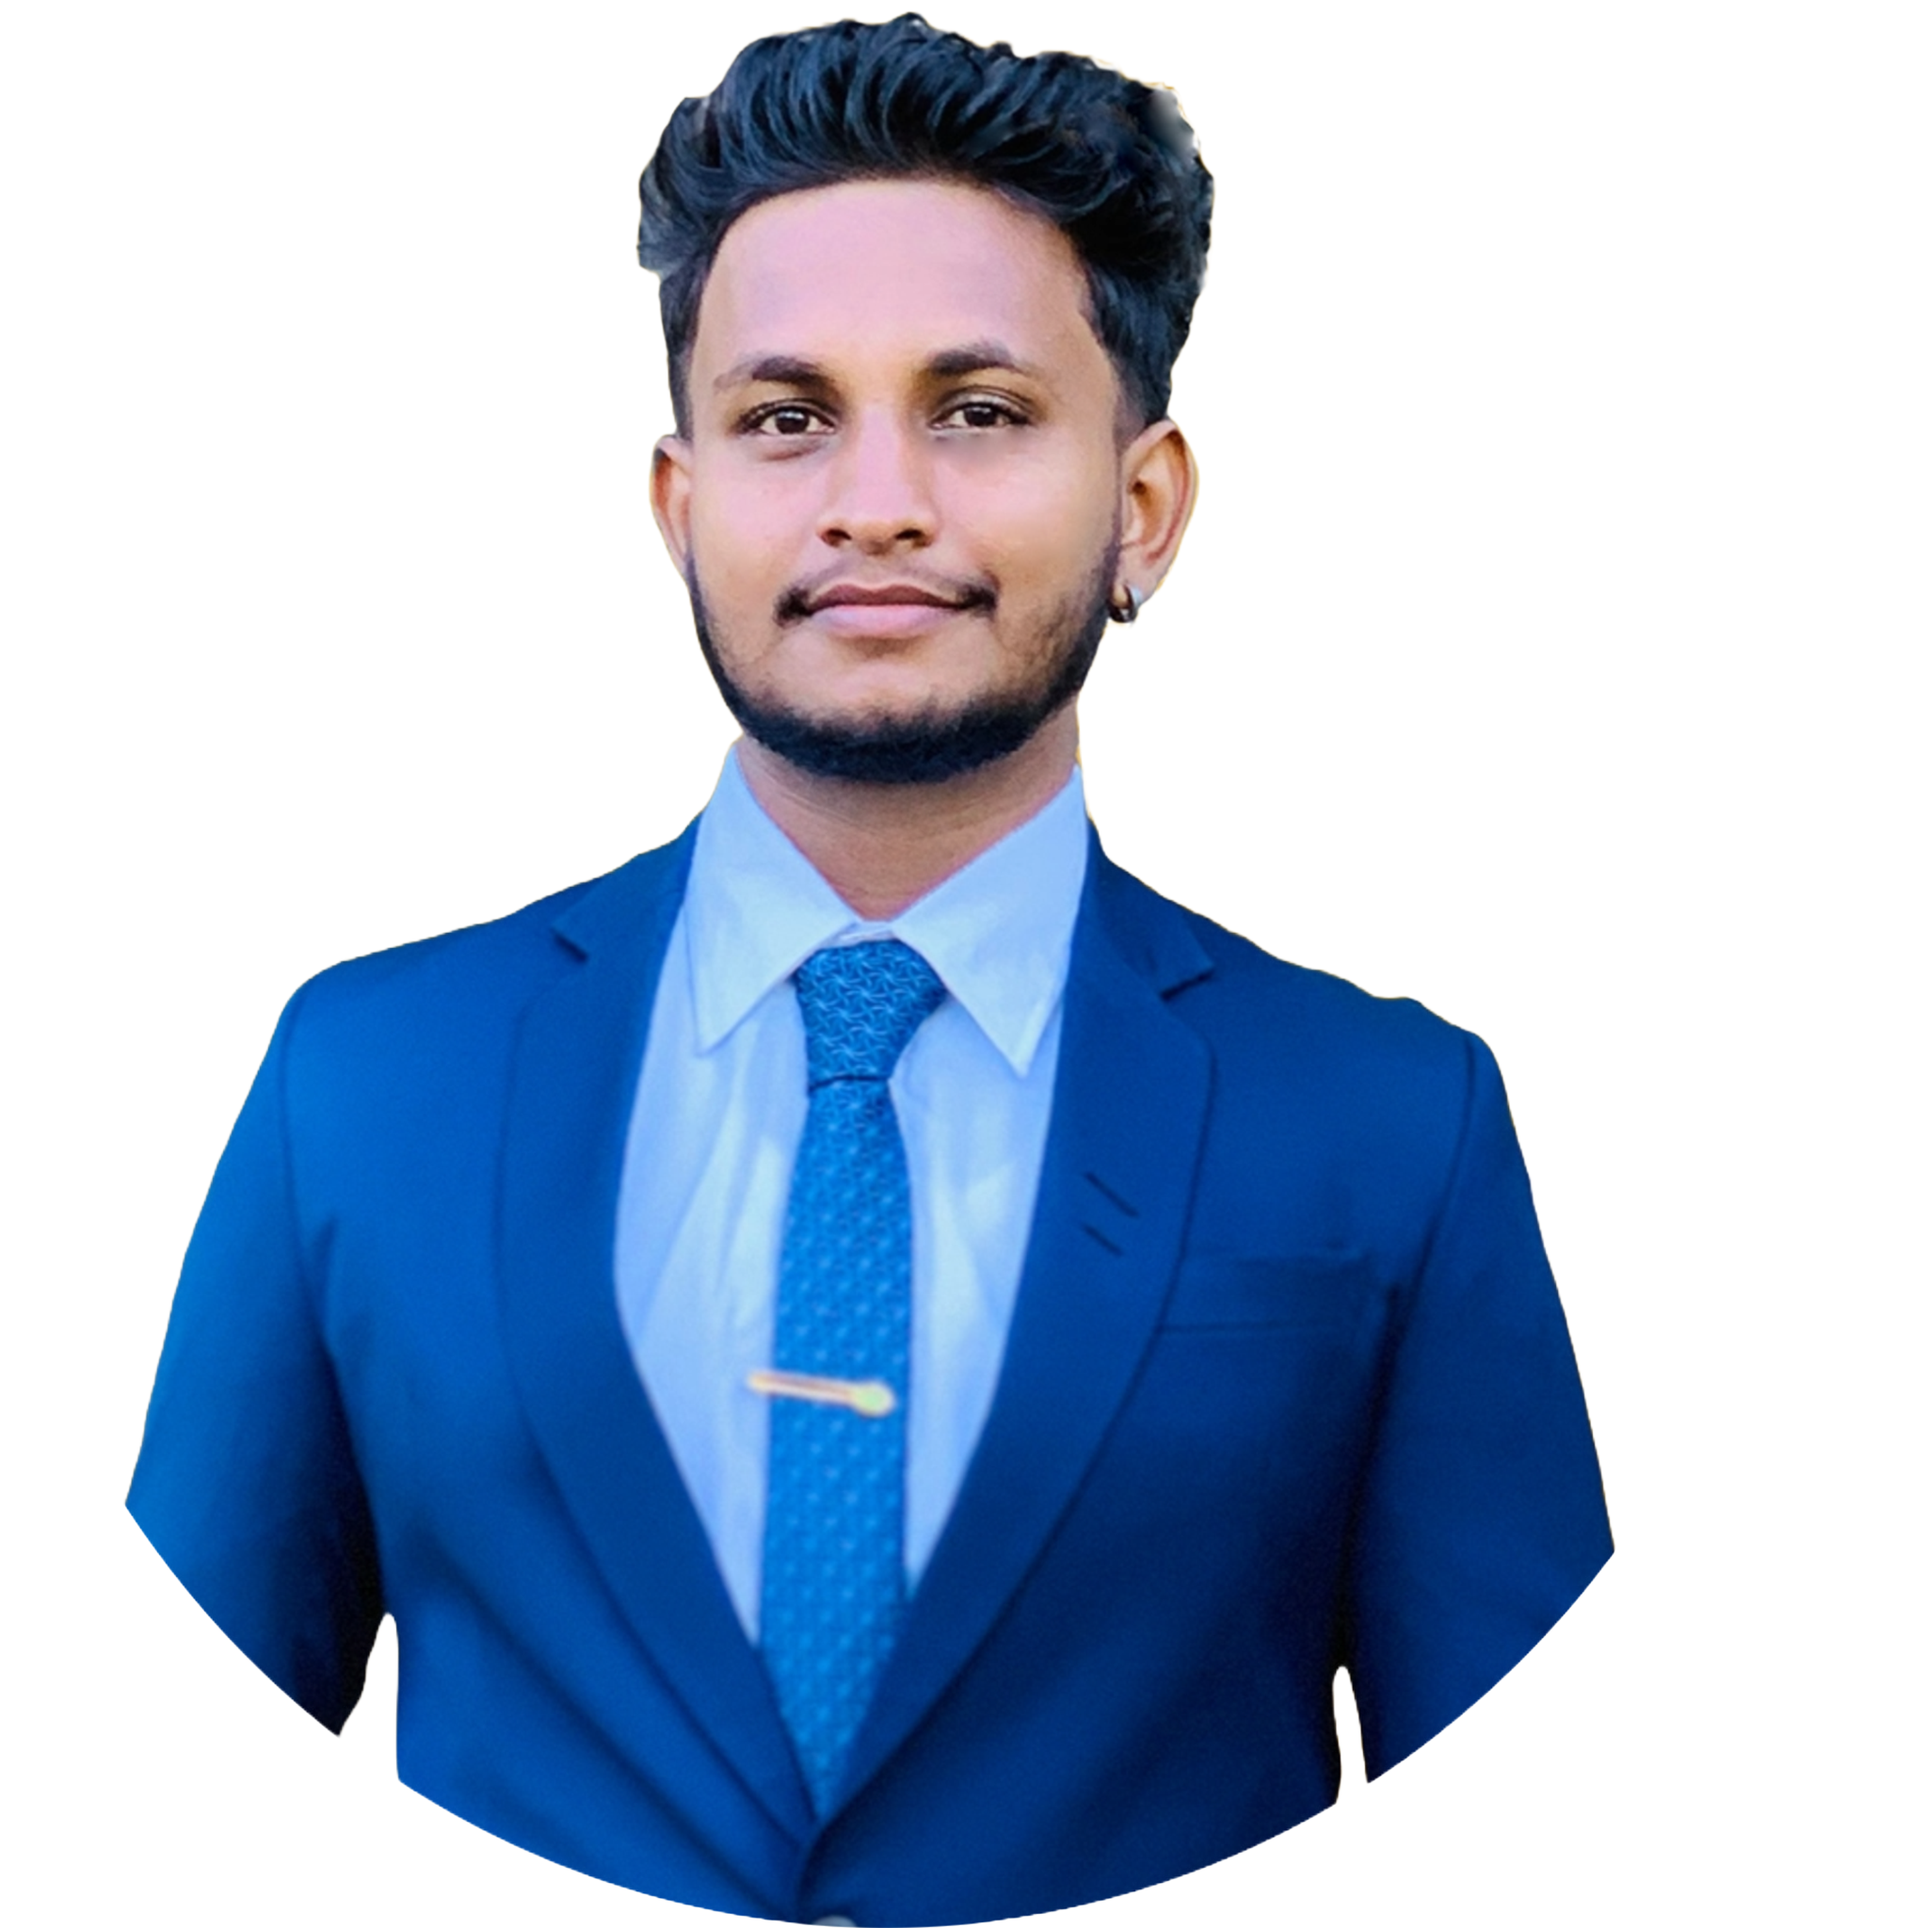
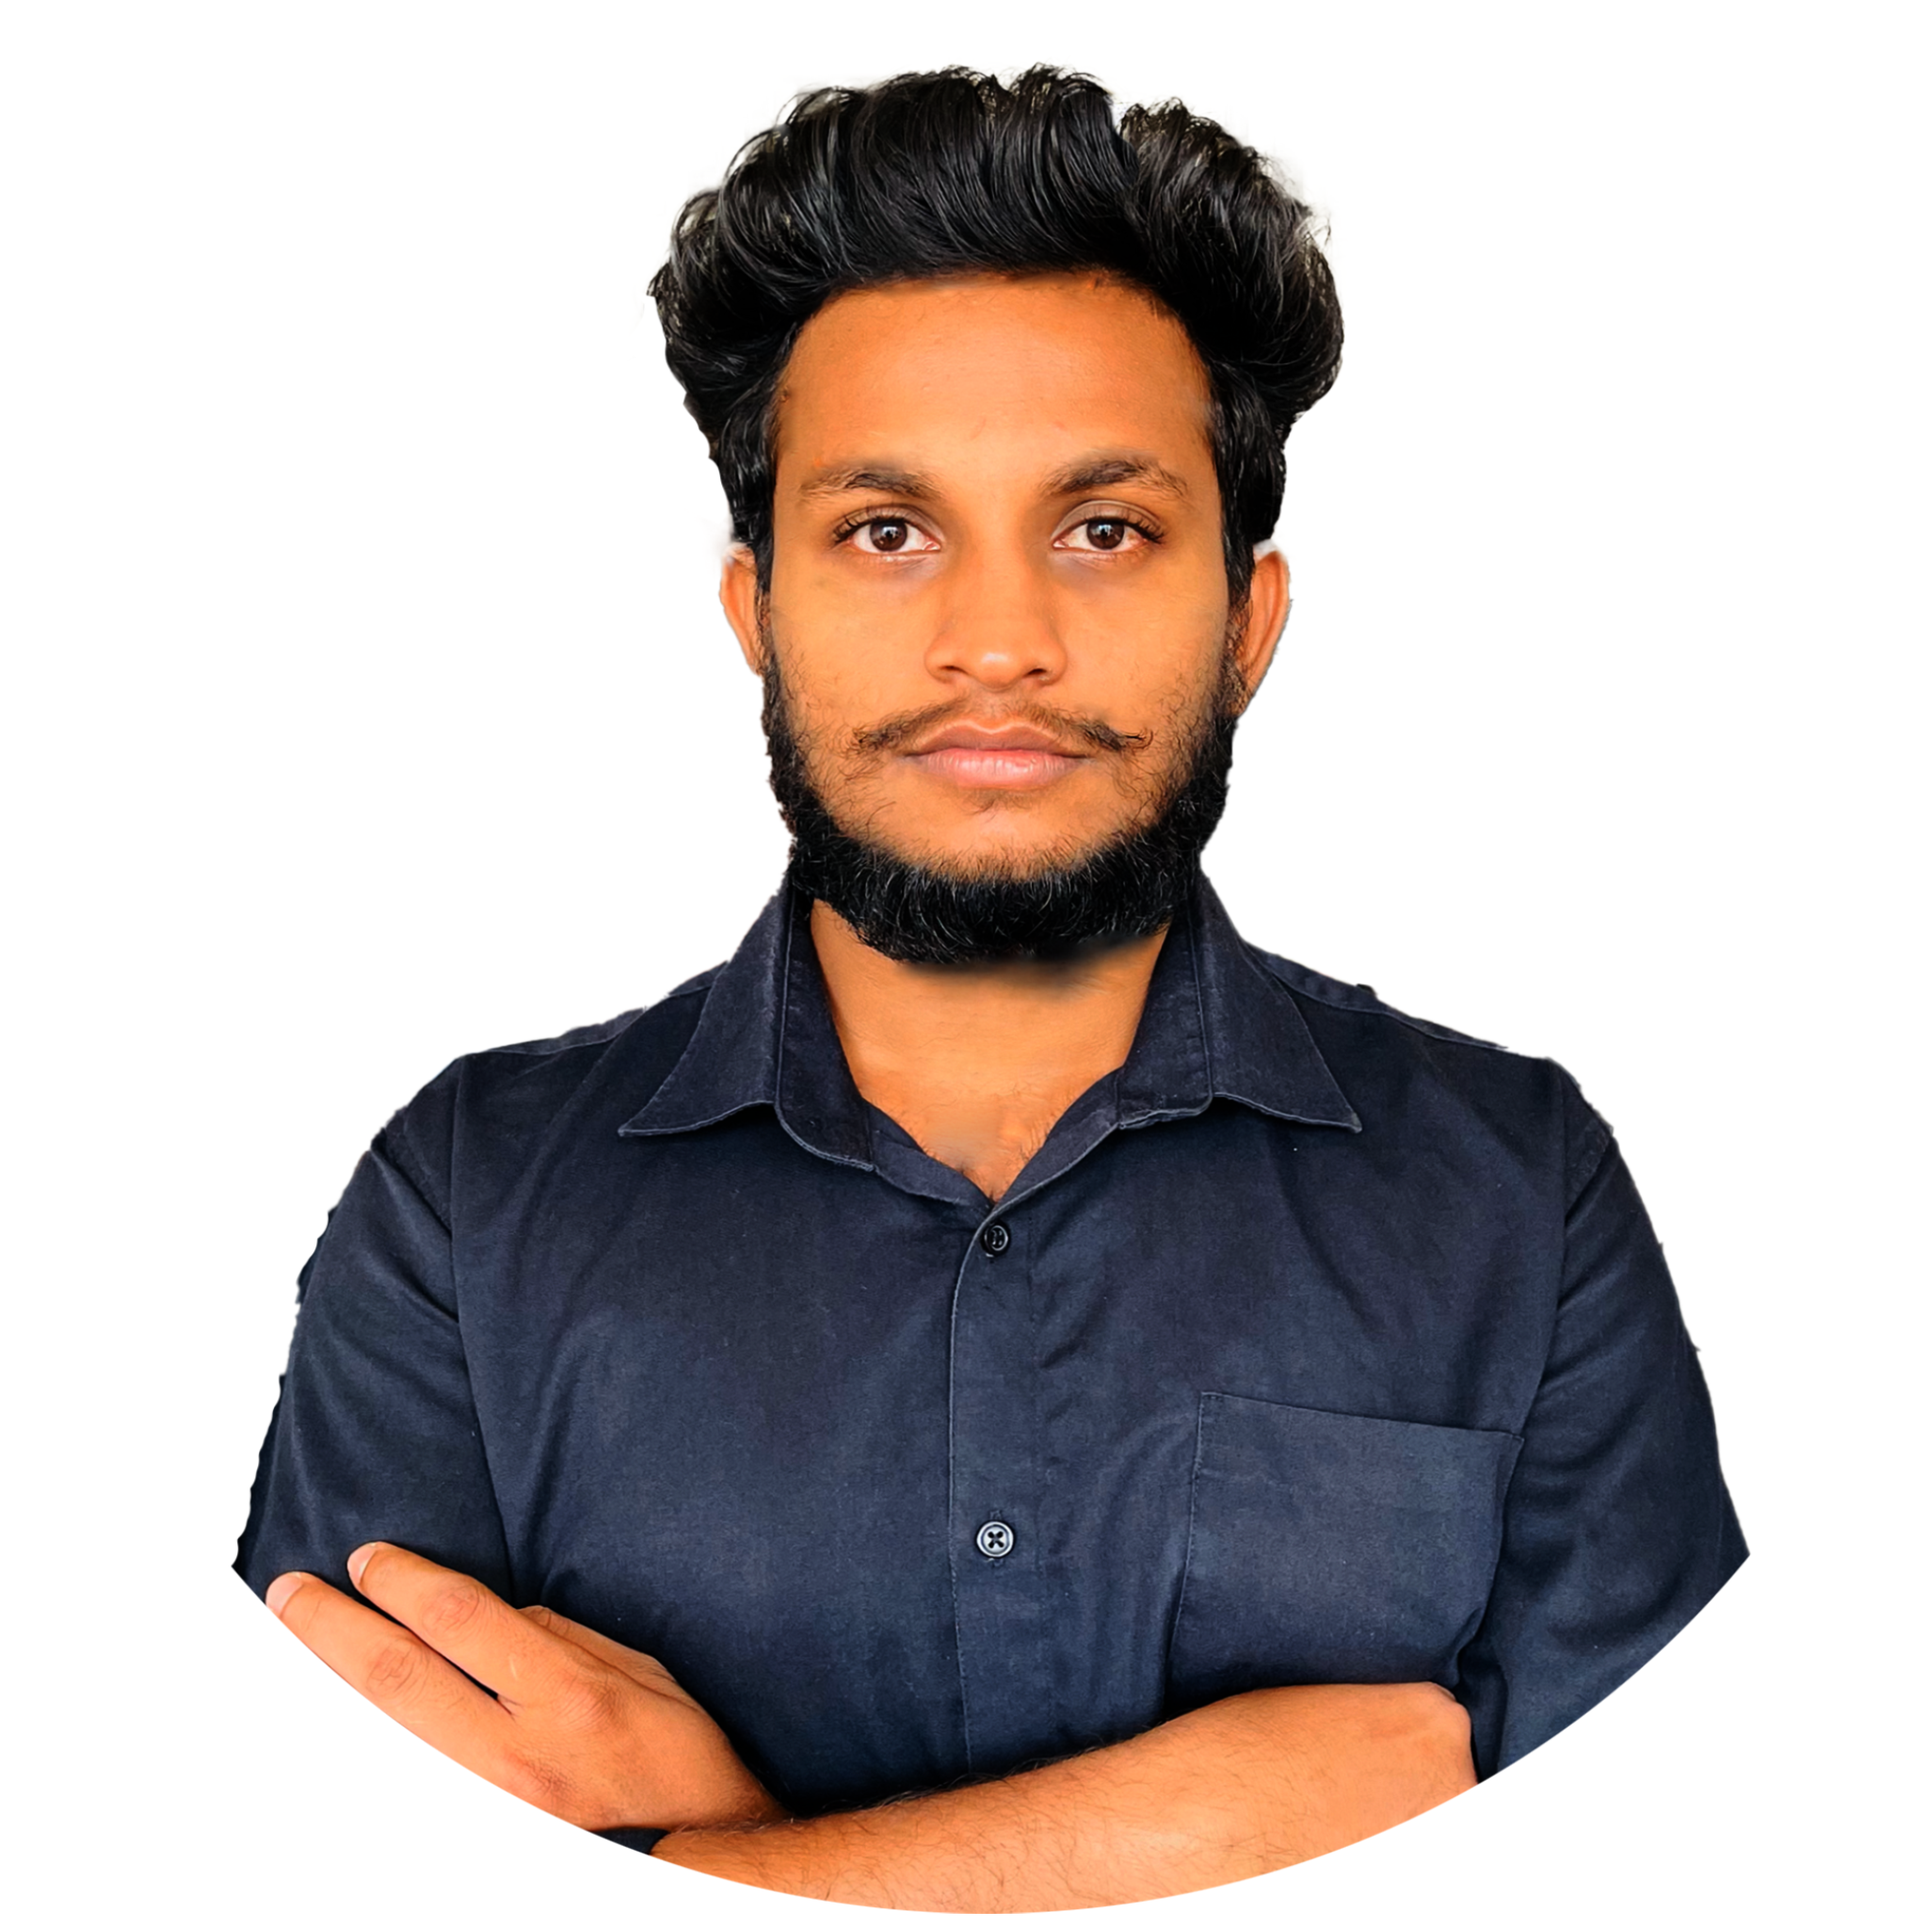
change dp

diff --git a/components/Photo.jsx b/components/Photo.jsx
@@ -27,8 +27,9 @@ const Photo = () => {
             quality={100}
             fill
             alt="Profile picture"
-            className="object-contain"
+            className="object-contain opacity-75"
           />
+
         </motion.div>
 
         <motion.svg
